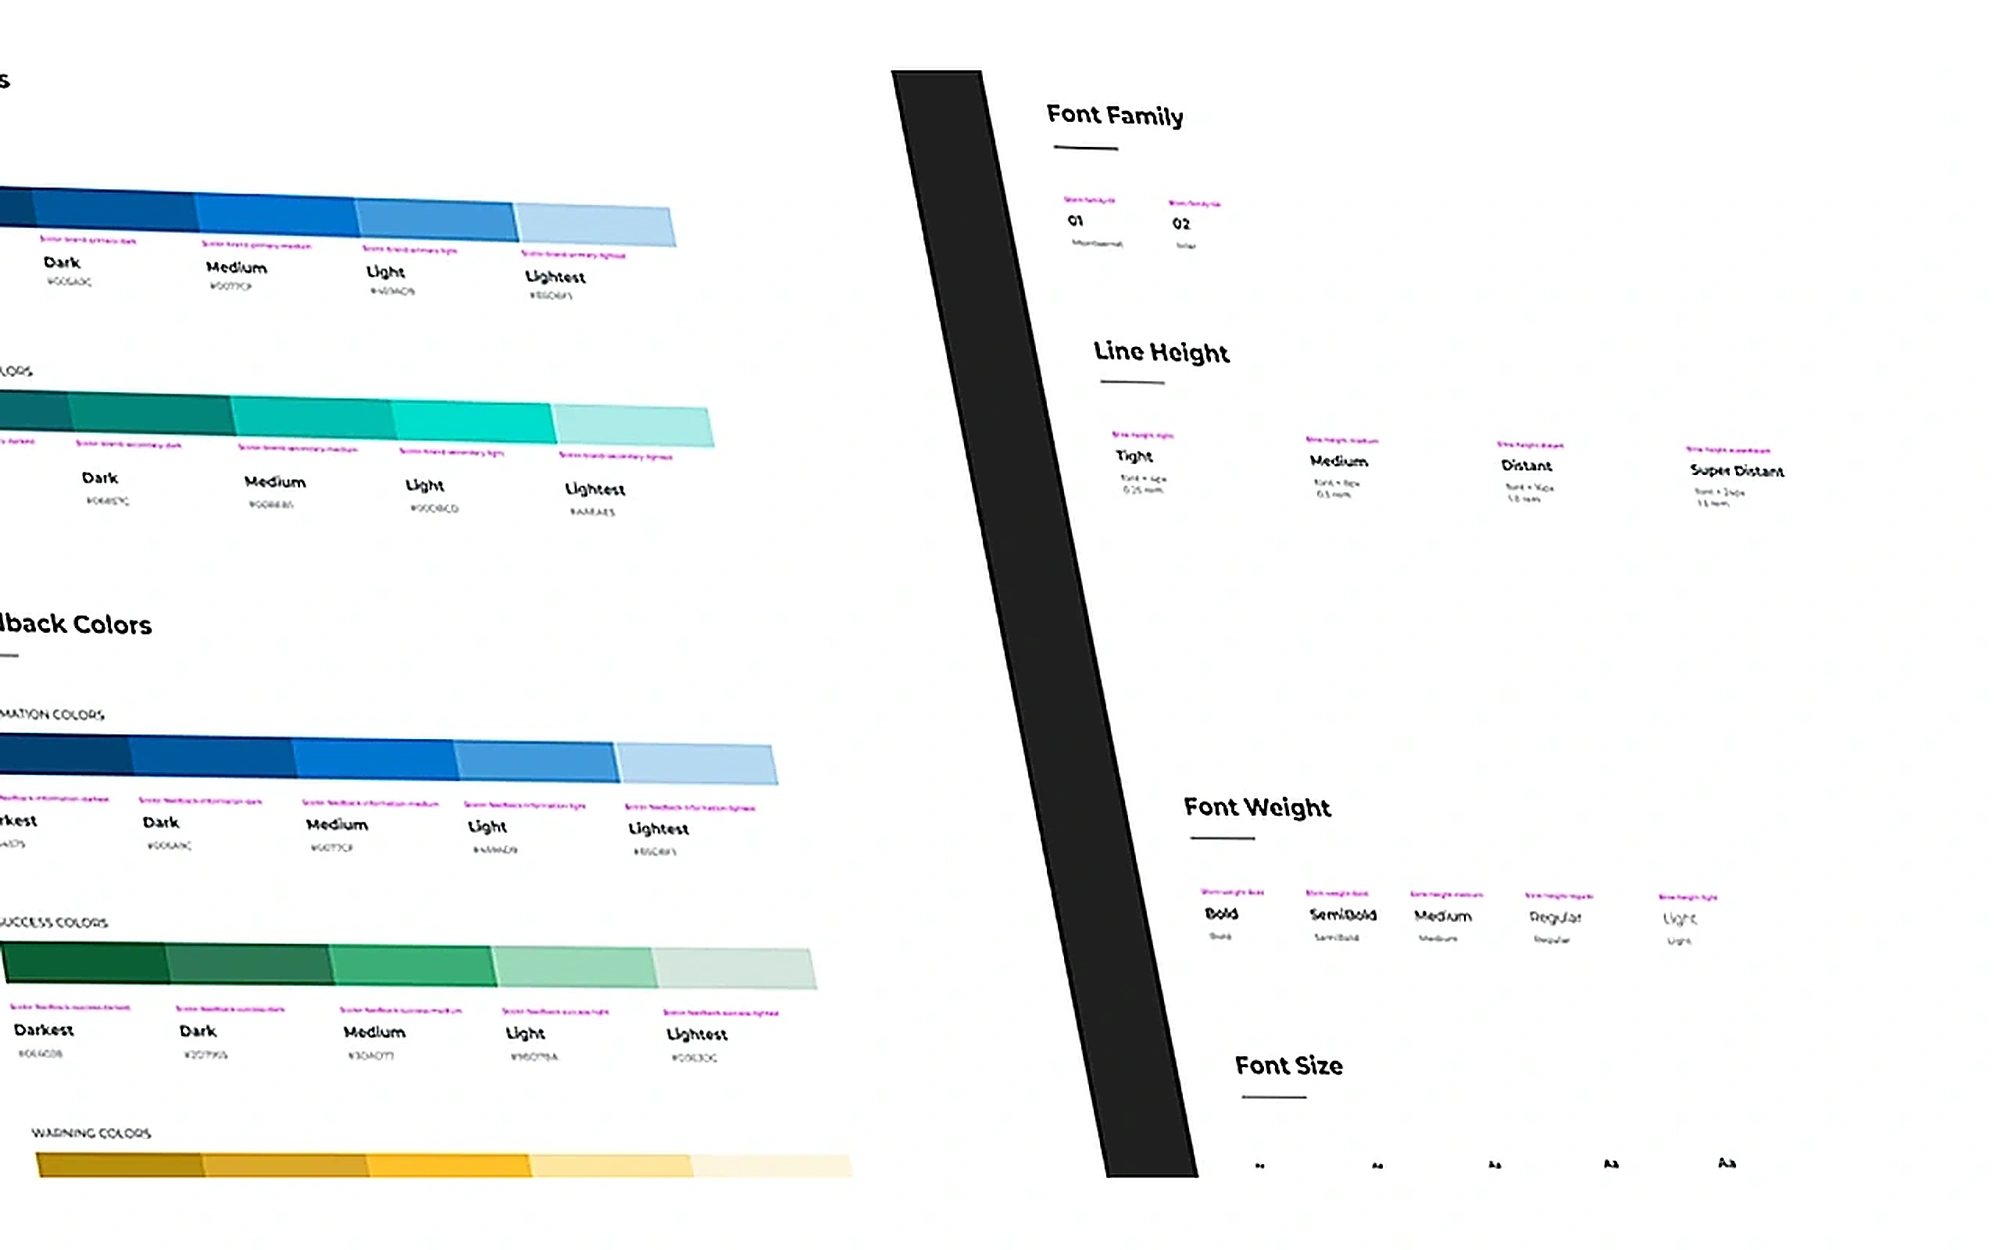
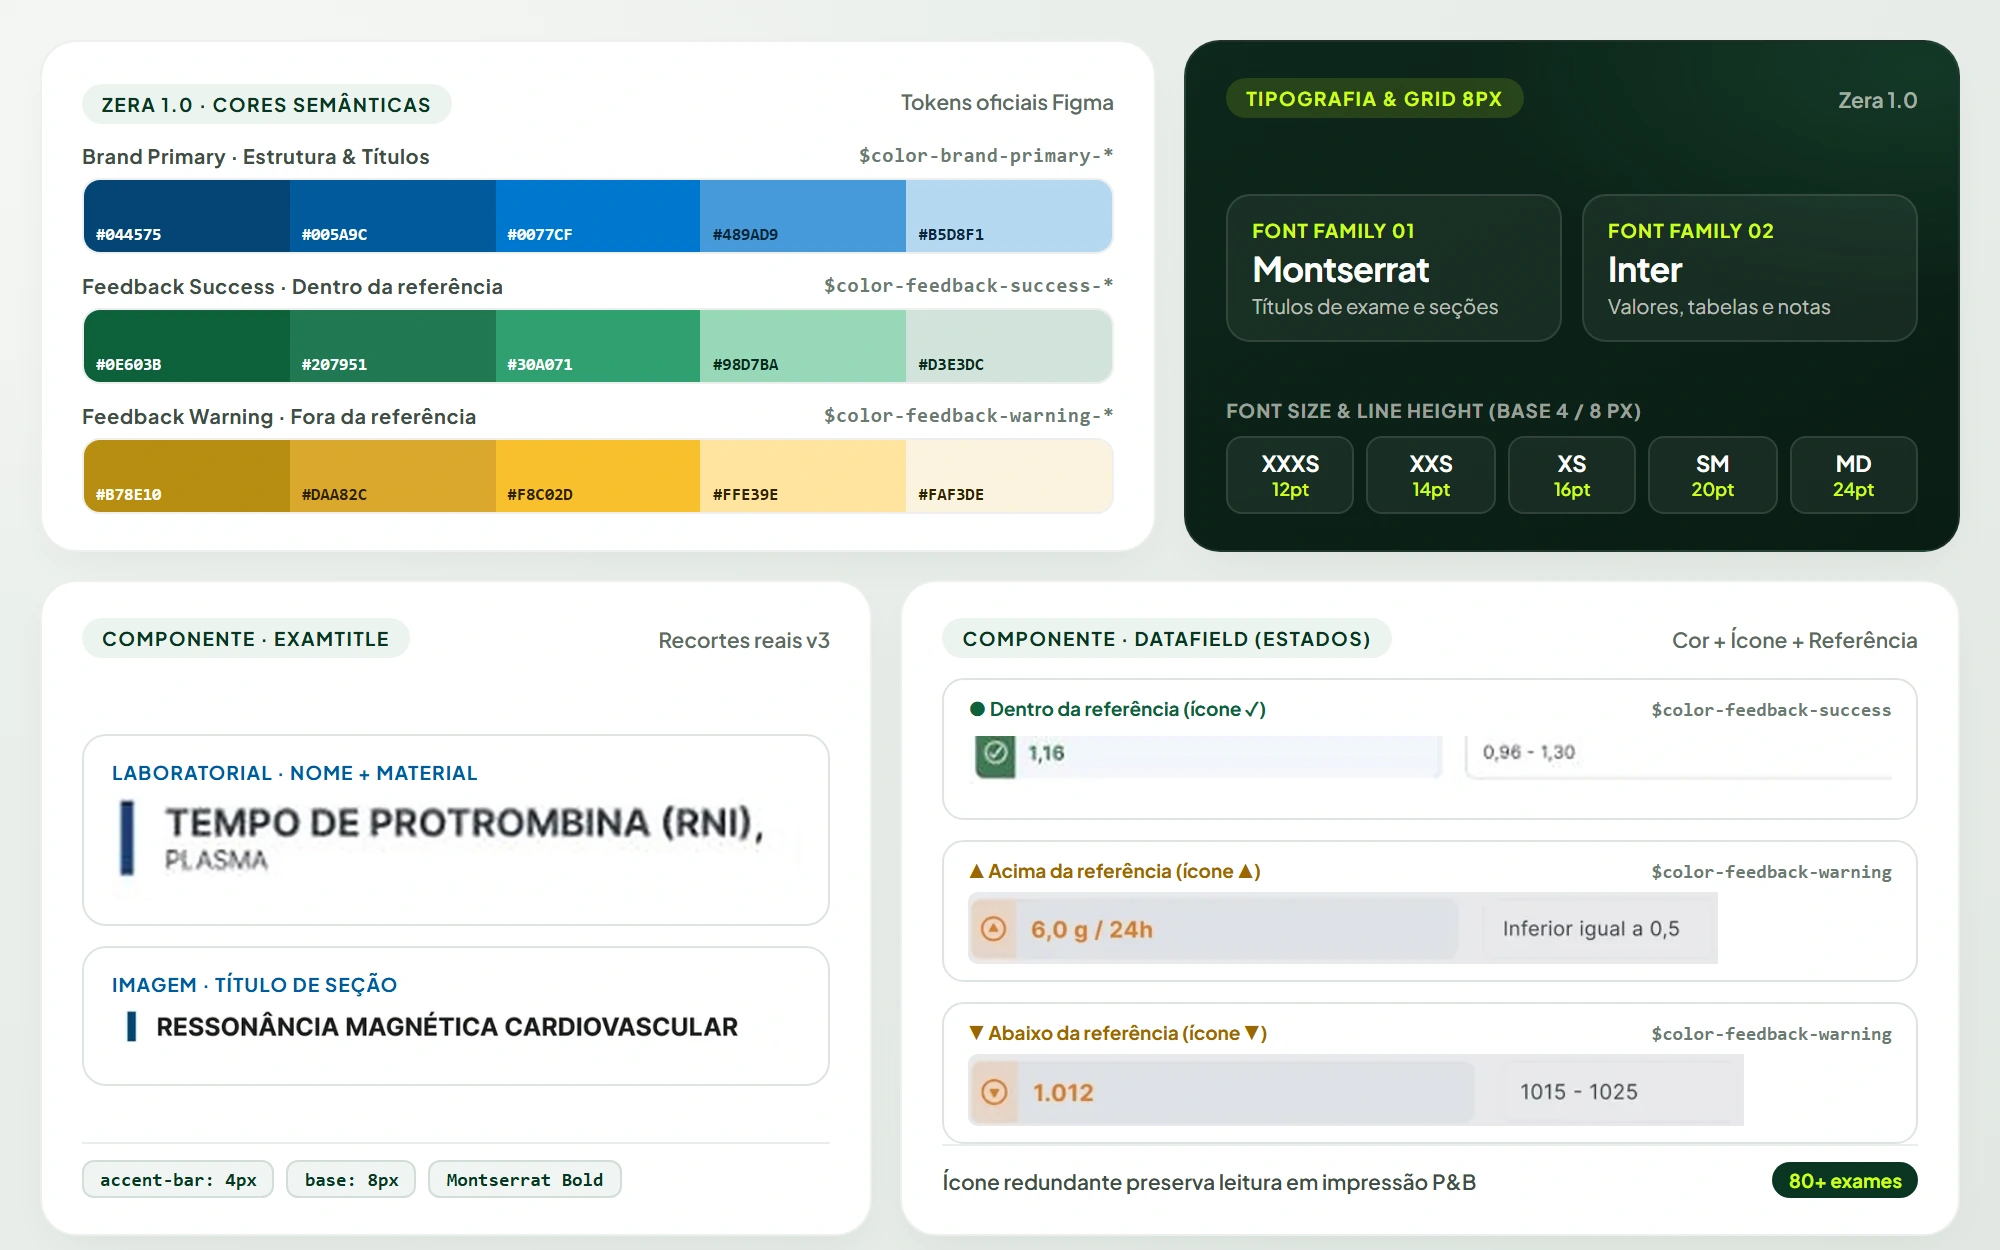
feat(v4.3.4): replace angled DS screenshot with 4-cell Zera 1.0 Bento Grid (semantic tokens, Montserrat/Inter 8px scale, real examTitle & dataField crops)

diff --git a/site/src/pages/CasePages.tsx b/site/src/pages/CasePages.tsx
@@ -434,7 +434,7 @@ export const einsteinPresentation: CasePresentationData = {
                   src: "/images/hiae-ds-tokens-clean-1280.webp",
                   width: 2000,
                   height: 1250,
-                  alt: "Documentação no Design System Zera 1.0: especificações de tokens de cores, tipografia e espaçamento para componentes de laudo",
+                  alt: "Bento grid do Design System Zera 1.0: tokens de cor semântica (Primary, Success e Warning), tipografia Montserrat e Inter em base 8px e recortes reais dos componentes examTitle e dataField nos estados normal, acima e abaixo da referência",
                   caption:
                     "Design System Zera 1.0: tokens e regras dos componentes dataField e examTitle documentados para reduzir divergências de espaçamento e hierarquia entre diferentes sistemas laudadores.",
                 }}

diff --git a/docs/v3_6_novembro_25_craft/CHANGELOG_V3_6_CRAFT_EDITION.md b/docs/v3_6_novembro_25_craft/CHANGELOG_V3_6_CRAFT_EDITION.md
@@ -305,3 +305,7 @@ Implementados os 4 refinamentos funcionais de alto impacto (evitando intencional
 ### 2026-11-27 — Versão V4.3.3 (Correção do Mockup Mobile na Prancha Multicanal Einstein `v13`)
 - **Prancha 3 Canais Einstein ([v13-einstein-3-canais-mesa-concreto.webp](../../site/public/images/v13-einstein-3-canais-mesa-concreto.webp), `2400×1350`):** reconstruída com tela mobile limpa de alta definição eliminando o duplo notch que cortava a marca *Albert Einstein Medicina Diagnóstica*, os cantos escuros residuais da captura anterior e o corte sobre `ANÁLISE:`. Aplicada área segura limpa para a Dynamic Island, logotipo completo extraído da tela oficial do Figma, tela do MacBook sem sombra residual na borda direita e respiro limpo acima do indicador inferior; espelhada em `site/public/images/`, `portfolio-verde/public/images/` e `D:\mockups-portfolio-studio\variacoes\`.
 - **Proveniência:** IA `Antigravity — Google DeepMind` · Atualização `2026-11-27` · Conversa `conversation://66417f41-f841-4d50-a701-e678302e3ec2`.
+
+### 2026-11-27 — Versão V4.3.4 (Bento Grid Design System Zera 1.0 no Case Einstein · Tokens + Recortes Reais `examTitle` e `dataField`)
+- **Design System Zera 1.0 ([hiae-ds-tokens-clean-1280.webp](../../site/public/images/hiae-ds-tokens-clean-1280.webp), `2000×1250` + `CasePages.tsx`):** substituído o print inclinado com barra preta diagonal por um **Bento Grid de 4 módulos** em 2× Retina reunindo: (1) rampas reais de cores semânticas Zera 1.0 (`Primary`, `Success`, `Warning` com hex oficiais); (2) card escuro com tipografia (`Montserrat` + `Inter`) e escala (`12pt–24pt`, ritmo base `4/8px`); (3) recortes reais do Figma do componente `examTitle` (laboratorial e imagem); e (4) recortes reais dos 3 estados clínicos de `dataField` (normal `✓`, acima `▲`, abaixo `▼`). Atualizado `alt` descritivo em `CasePages.tsx` (`A-01`) e espelhado em `portfolio-verde/` e `D:\mockups-portfolio-studio\variacoes\`.
+- **Proveniência:** IA `Antigravity — Google DeepMind` · Atualização `2026-11-27` · Conversa `conversation://66417f41-f841-4d50-a701-e678302e3ec2`.
